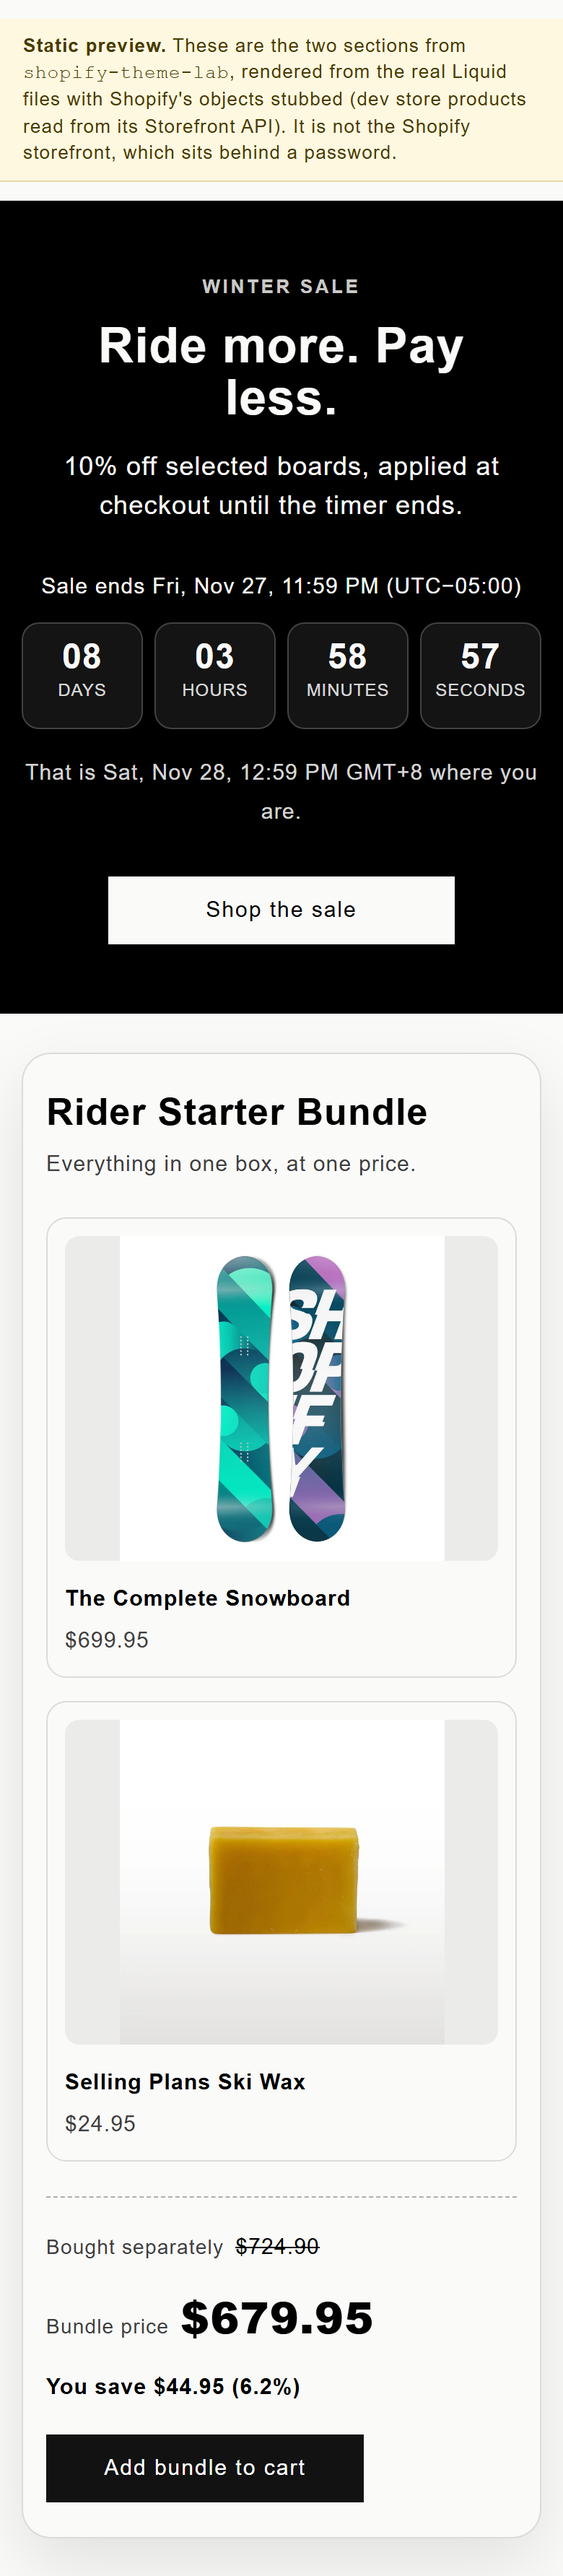
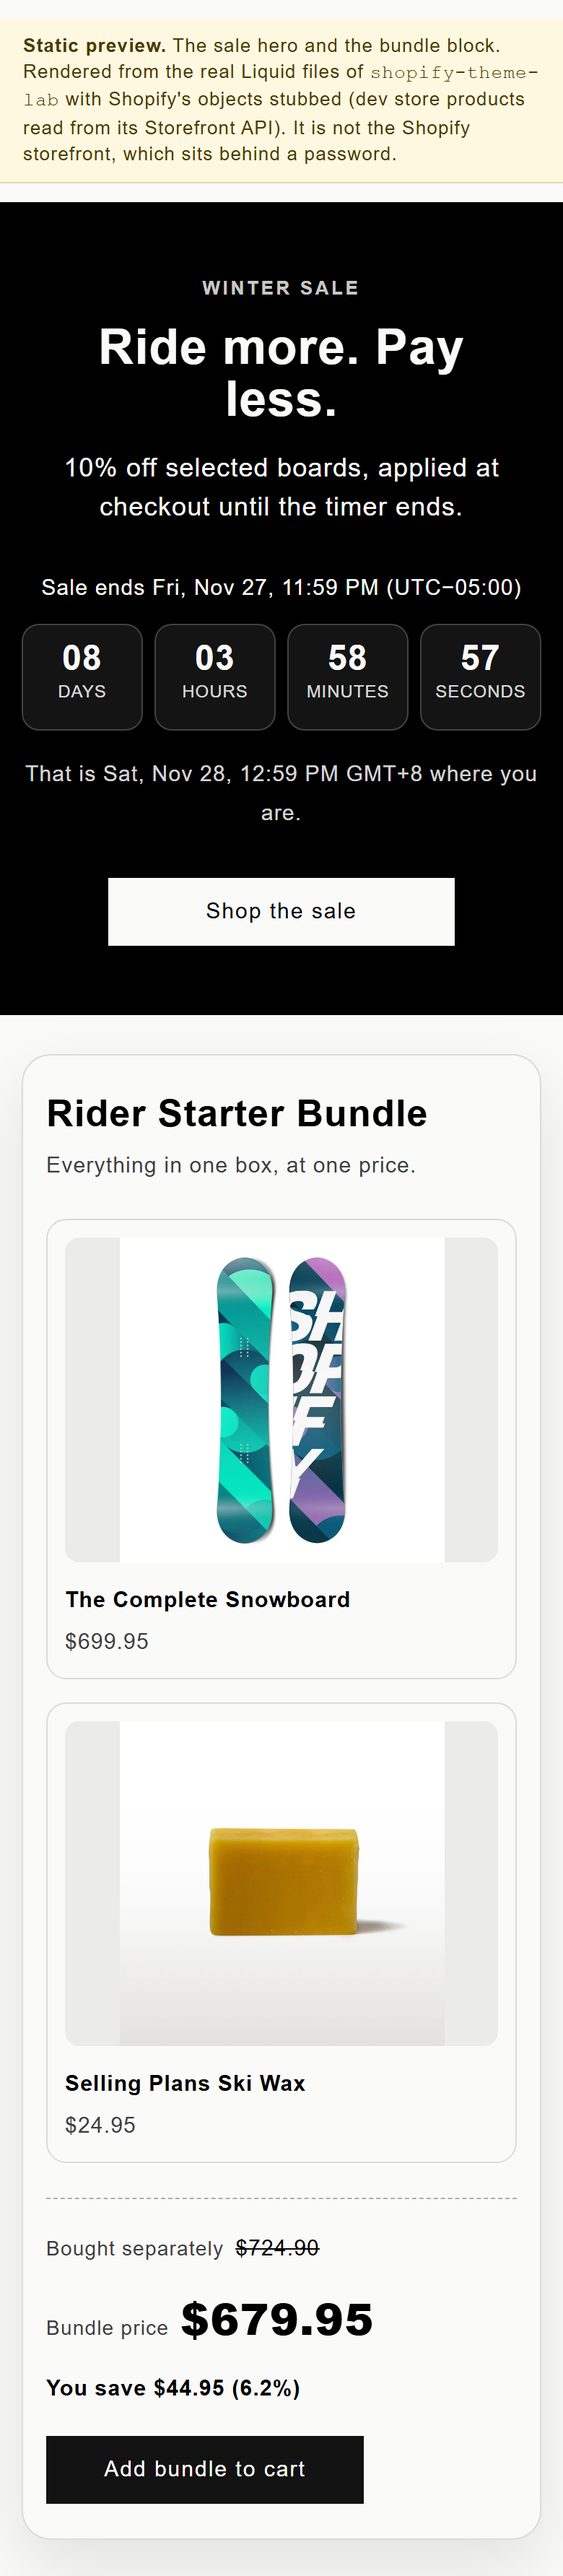
Add a sold-out variant of the bundle preview
The video walkthrough needs to show the bundle button turning to Sold out, so the preview builder now also renders the same section with one part marked unavailable.

diff --git a/preview/sold-out.html b/preview/sold-out.html
@@ -1,0 +1,68 @@
+<!doctype html>
+<html lang="en"><head><meta charset="utf-8"><meta name="viewport" content="width=device-width, initial-scale=1">
+<title>Bundle block with one part sold out</title>
+<link href="assets/base.css" rel="stylesheet"><style>:root{--font-body-family:Helvetica,Arial,sans-serif;--font-body-style:normal;--font-body-weight:400;--font-body-weight-bold:700;
+--font-heading-family:Helvetica,Arial,sans-serif;--font-heading-style:normal;--font-heading-weight:700;--font-body-scale:1;--font-heading-scale:1;
+--color-base-text:0, 0, 0;--color-shadow:0, 0, 0;--color-base-background-1:250, 250, 249;--color-base-background-2:107, 107, 107;
+--color-base-solid-button-labels:255, 255, 255;--color-base-outline-button-labels:18, 18, 18;
+--color-base-accent-1:18, 18, 18;--color-base-accent-2:69, 192, 182;
+--gradient-base-background-1:#fafaf9;--gradient-base-background-2:#6b6b6b;--gradient-base-accent-1:#121212;--gradient-base-accent-2:#45c0b6;
+--media-padding:0px;--media-border-opacity:.1;--media-border-width:1px;--media-radius:0px;--media-shadow-opacity:0;--media-shadow-visible:0;
+--page-width:160rem;--page-width-margin:2rem;--buttons-radius:0px;--buttons-radius-outset:0px;--buttons-border-width:1px;--buttons-border-opacity:1;
+--buttons-shadow-opacity:0;--buttons-shadow-visible:0;--buttons-border-offset:0px;--inputs-radius:0px;--inputs-border-width:1px;--inputs-border-opacity:.55}
+html{font-size:62.5%}body{margin:0;font-size:1.5rem;letter-spacing:.06rem;line-height:calc(1 + .8 / var(--font-body-scale));font-family:var(--font-body-family)}
+.preview-note{font:13px/1.4 Helvetica,Arial,sans-serif;padding:10px 16px;background:#fff8e1;color:#4a3b00;border-bottom:1px solid #e6d9a8}
+.preview-note b{font-weight:700}</style></head>
+<body class="gradient">
+<p class="preview-note"><b>Static preview.</b> The bundle block with the wax marked unavailable. Rendered from the real Liquid files of <code>shopify-theme-lab</code> with Shopify's objects stubbed (dev store products read from its Storefront API). It is not the Shopify storefront, which sits behind a password.</p>
+<main>
+<link href="assets/section-bundle-contents.css" rel="stylesheet" type="text/css" media="all"><style data-shopify>#BundleContents-test1 {
+    --bundle-pad-top: 27px;
+    --bundle-pad-bottom: 27px;
+  }
+
+  @media screen and (min-width: 750px) {
+    #BundleContents-test1 {
+      --bundle-pad-top: 36px;
+      --bundle-pad-bottom: 36px;
+    }
+  }</style><div id="BundleContents-test1" class="bundle-contents">
+    <div class="page-width">
+      <div class="bundle-contents__card color-background-1 gradient">
+        <h2 class="bundle-contents__heading">Rider Starter Bundle</h2><p class="bundle-contents__sub">Everything in one box, at one price.</p><p class="visually-hidden">What is in the bundle</p>
+        <ul class="bundle-contents__items"><li class="bundle-contents__item">
+              <a href="/products/the-complete-snowboard" class="bundle-contents__link">
+                <div class="bundle-contents__media"><img src="https://cdn.shopify.com/s/files/1/0848/7052/9245/files/Main_589fc064-24a2-4236-9eaf-13b2bd35d21d.jpg?v=1787239921&width=800" alt="The Complete Snowboard" loading="lazy"></div>
+                <span class="bundle-contents__name">The Complete Snowboard</span>
+              </a>
+              <span class="bundle-contents__price">$699.95</span>
+            </li><li class="bundle-contents__item">
+              <a href="/products/selling-plans-ski-wax" class="bundle-contents__link">
+                <div class="bundle-contents__media"><img src="https://cdn.shopify.com/s/files/1/0848/7052/9245/files/snowboard_wax.jpg?v=1787239921&width=800" alt="Selling Plans Ski Wax" loading="lazy"></div>
+                <span class="bundle-contents__name">Selling Plans Ski Wax</span>
+              </a>
+              <span class="bundle-contents__price">$24.95</span>
+            </li></ul>
+
+        <dl class="bundle-contents__totals"><div class="bundle-contents__row">
+              <dt>Bought separately</dt>
+              <dd><s>$724.90</s></dd>
+            </div><div class="bundle-contents__row bundle-contents__row--price">
+            <dt>Bundle price</dt>
+            <dd>$679.95</dd>
+          </div><div class="bundle-contents__row bundle-contents__row--save">
+              <dt class="visually-hidden">Saving</dt>
+              <dd>You save $44.95 (6.2%)</dd>
+            </div></dl><form method="post" action="/cart/add" id="test1" class="bundle-contents__form" accept-charset="UTF-8" enctype="multipart/form-data"><input type="hidden" name="id" value="rider-starter-bundle-v1">
+            <button
+              type="submit"
+              name="add"
+              class="button bundle-contents__button"
+              
+                disabled
+              
+            >Sold out</button></form></div>
+    </div>
+  </div>
+
+</main></body></html>

diff --git a/preview/index.html b/preview/index.html
@@ -14,7 +14,7 @@ html{font-size:62.5%}body{margin:0;font-size:1.5rem;letter-spacing:.06rem;line-h
 .preview-note{font:13px/1.4 Helvetica,Arial,sans-serif;padding:10px 16px;background:#fff8e1;color:#4a3b00;border-bottom:1px solid #e6d9a8}
 .preview-note b{font-weight:700}</style></head>
 <body class="gradient">
-<p class="preview-note"><b>Static preview.</b> These are the two sections from <code>shopify-theme-lab</code>, rendered from the real Liquid files with Shopify's objects stubbed (dev store products read from its Storefront API). It is not the Shopify storefront, which sits behind a password.</p>
+<p class="preview-note"><b>Static preview.</b> The sale hero and the bundle block. Rendered from the real Liquid files of <code>shopify-theme-lab</code> with Shopify's objects stubbed (dev store products read from its Storefront API). It is not the Shopify storefront, which sits behind a password.</p>
 <main>
 <link href="assets/section-sale-event-hero.css" rel="stylesheet" type="text/css" media="all">
 <script src="assets/sale-countdown.js" defer="defer"></script><style data-shopify>#SaleHero-test1 {
